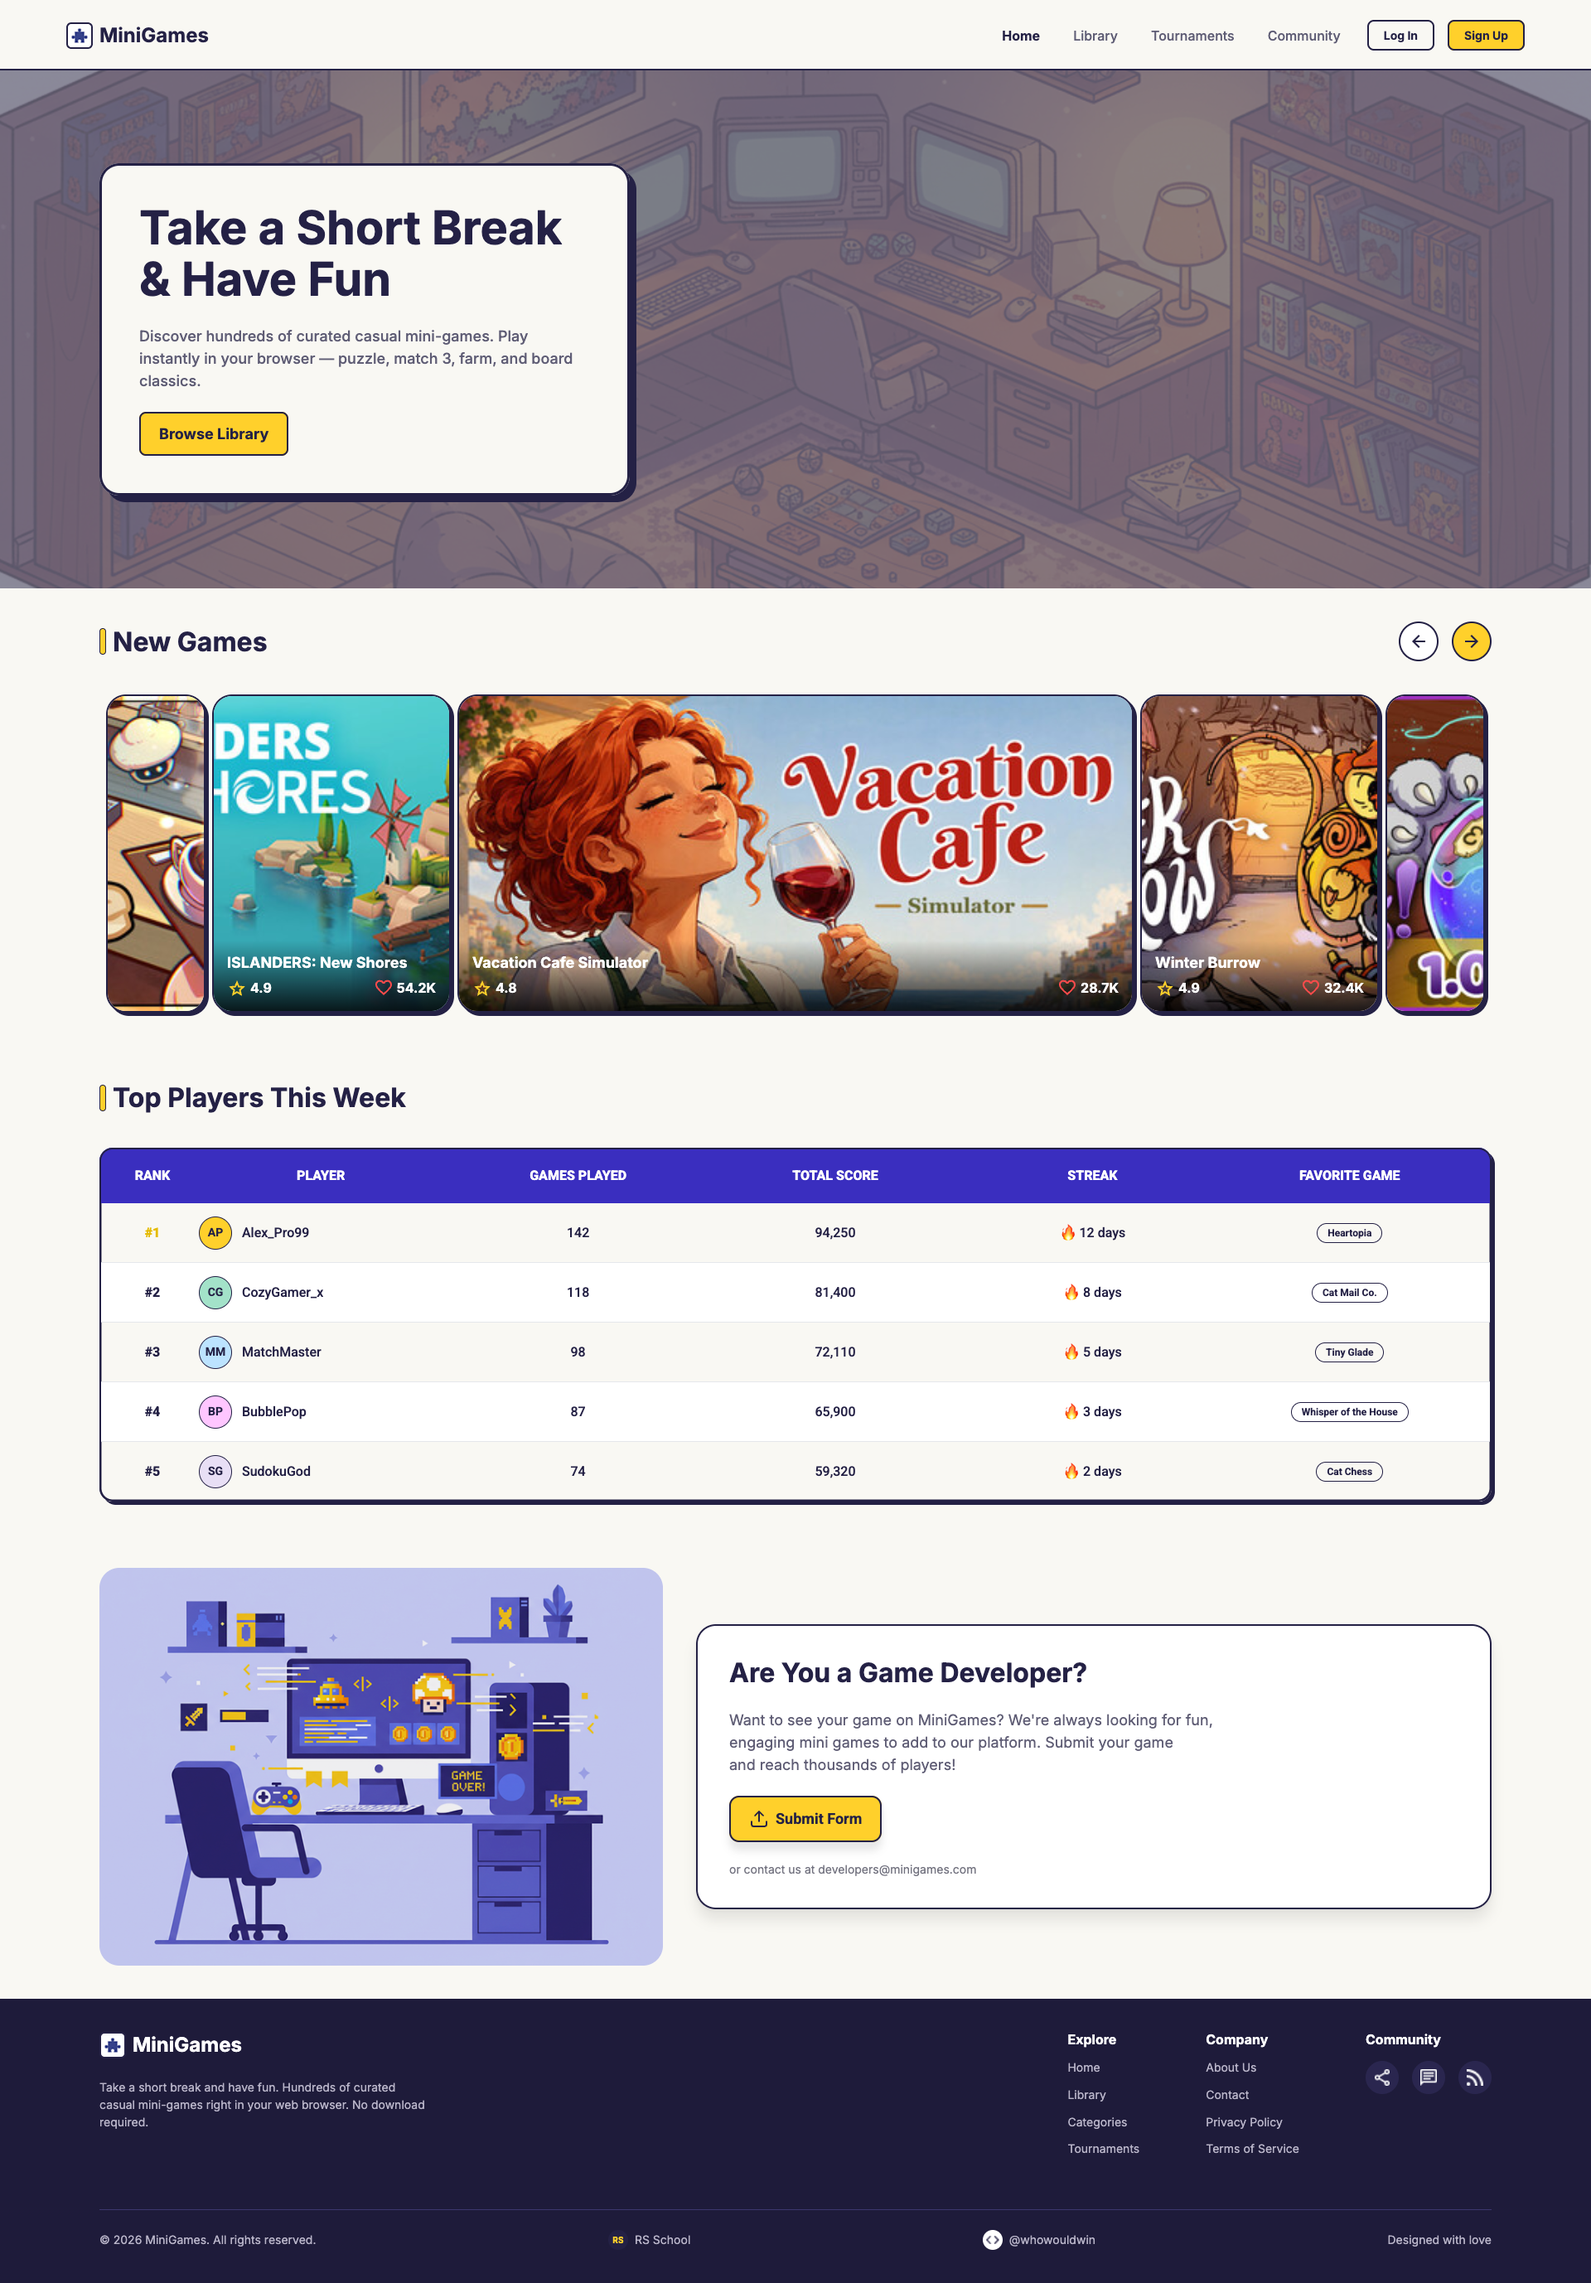
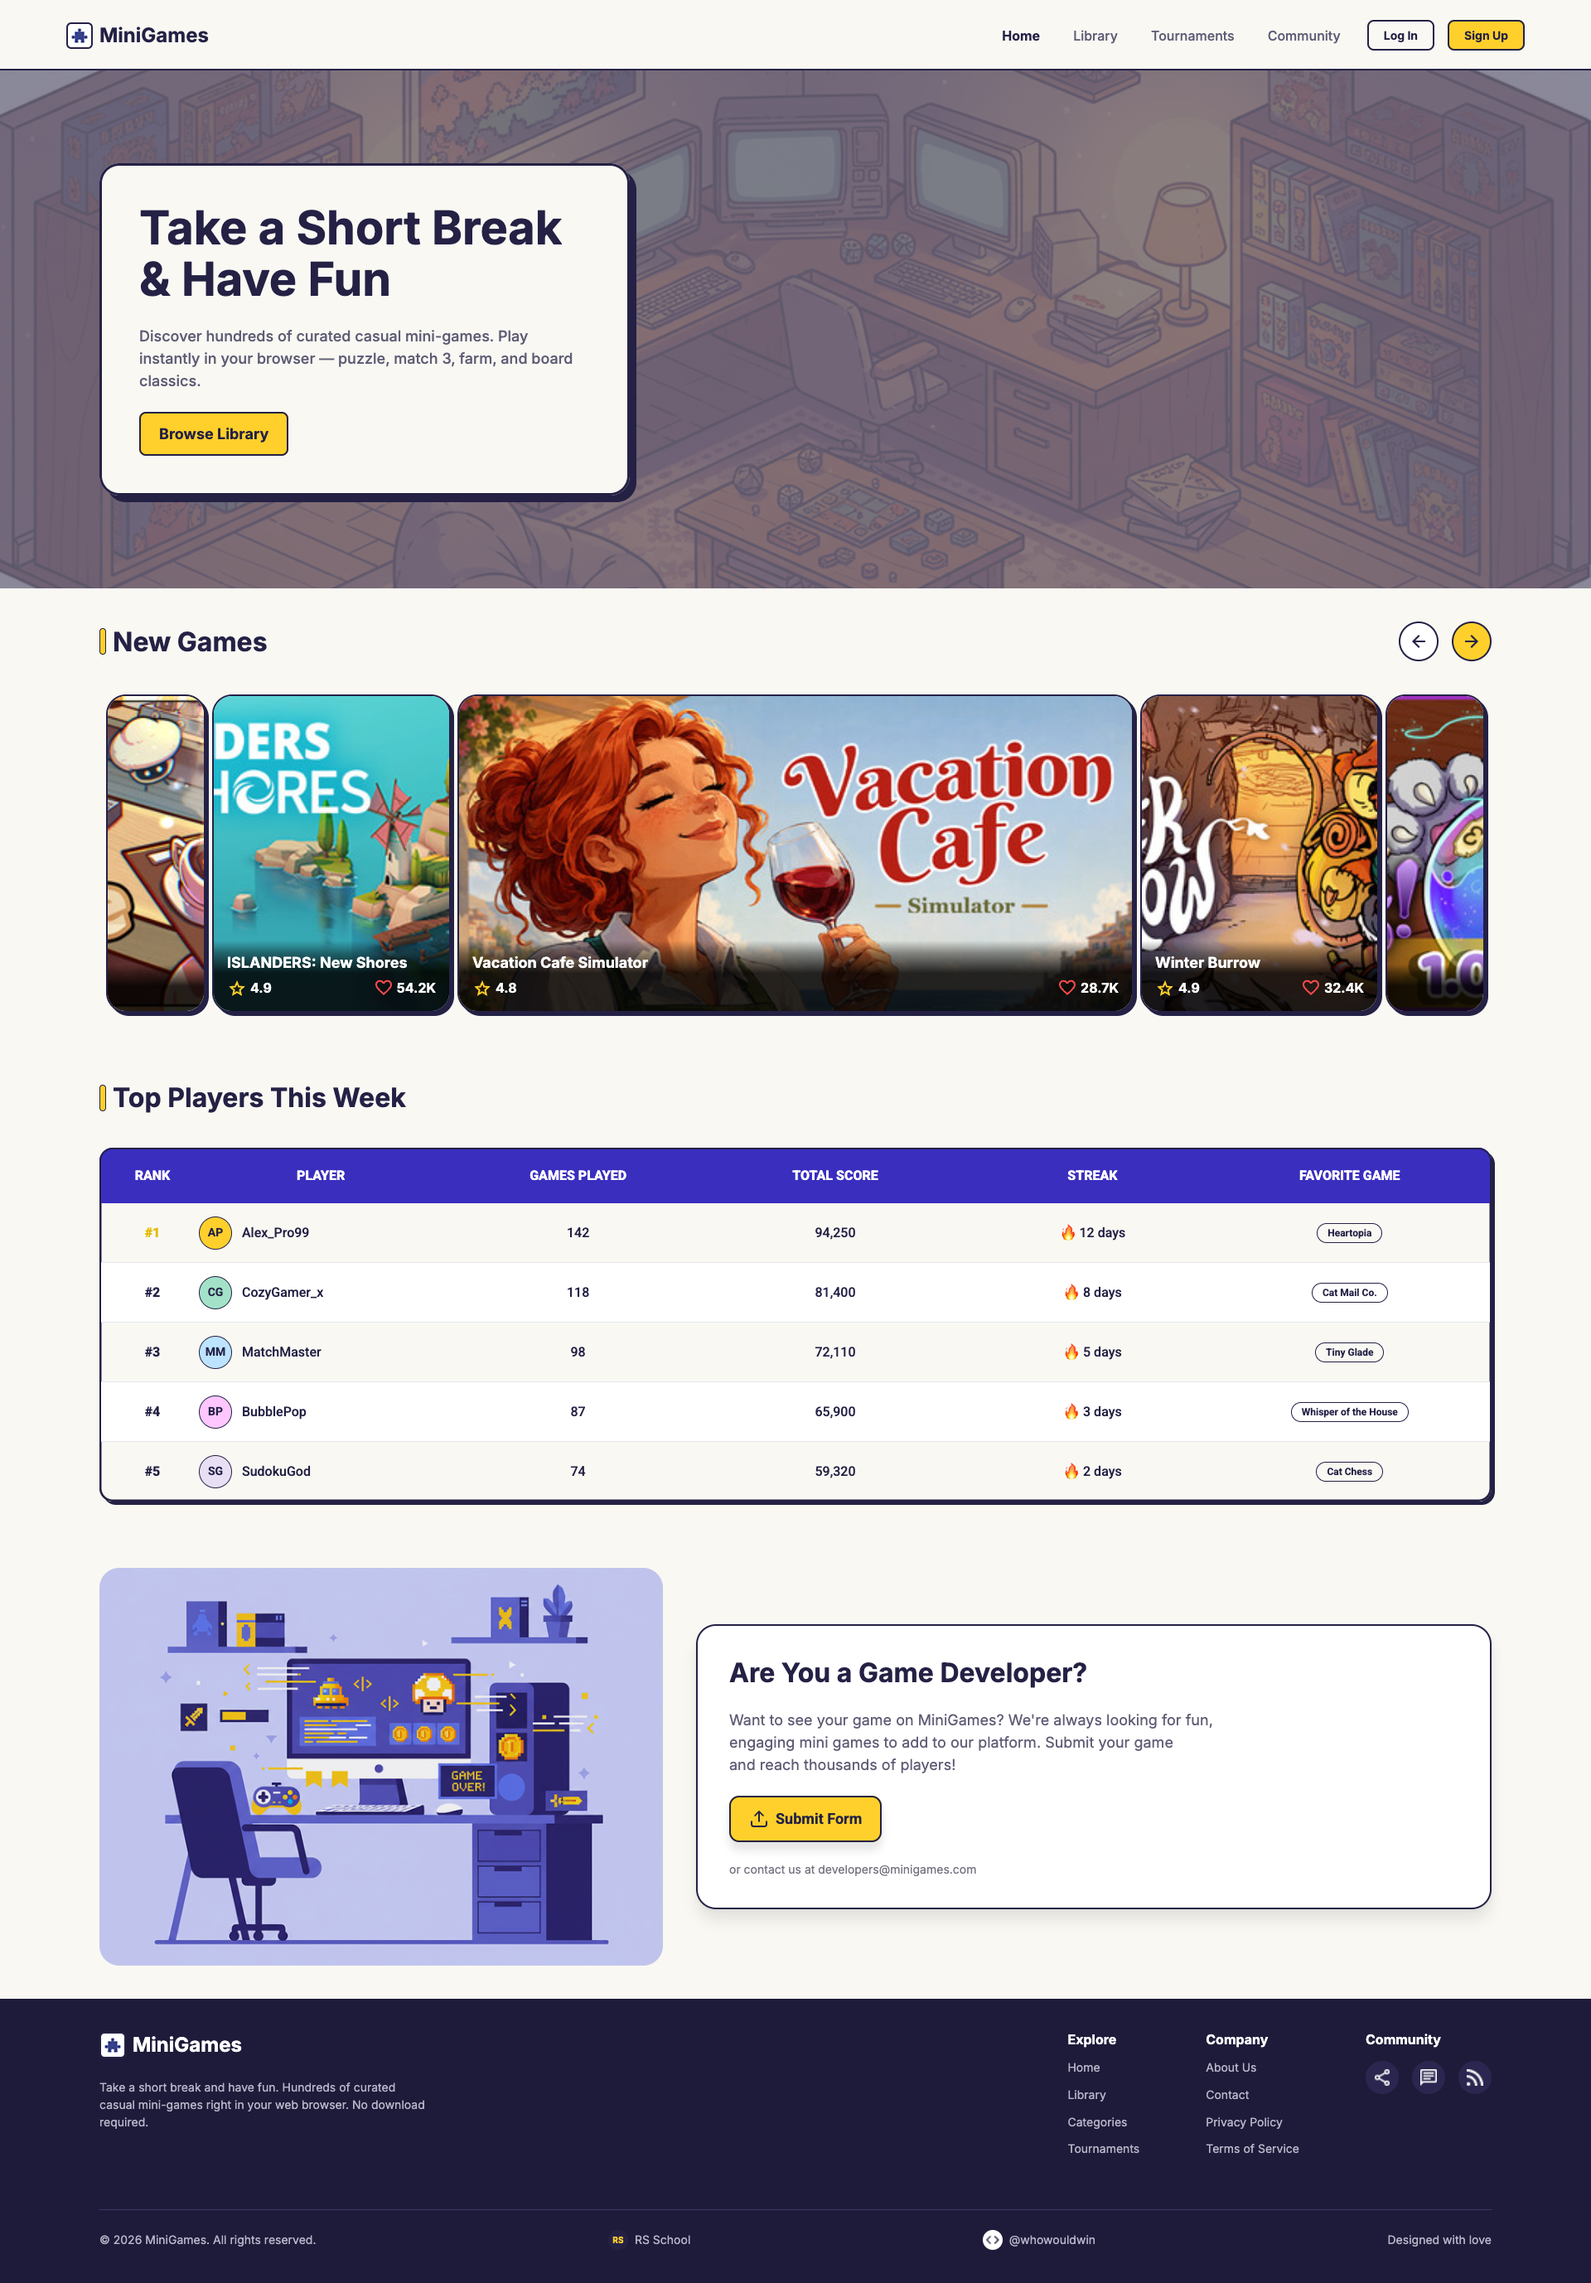
fix(RSS-QS-1-4-4): restore card shading and isolate menu layers

Changed region(s): [[0.0625, 0.4058, 0.9375, 0.4682]]

diff --git a/src/components/game-card/game-card.scss b/src/components/game-card/game-card.scss
@@ -1,4 +1,5 @@
 @use "../../styles/tokens";
+@use "../../styles/mixins";
 
 $game-card-info-threshold: 288px;
 $game-card-border-width: 2.5px;
@@ -12,10 +13,21 @@ $game-card-overlay-gap: tokens.$size-1;
 $game-card-title-line-height: 1.2;
 $game-card-stat-line-height: 1;
 
+$game-card-overlay-middle-stop: 17.308%;
+$game-card-overlay-dark-stop: 46.154%;
+
+$game-card-overlay-gradient: linear-gradient(
+  to bottom,
+  transparent,
+  rgba(tokens.$black, 0.4) $game-card-overlay-middle-stop,
+  rgba(tokens.$black, 0.85) $game-card-overlay-dark-stop
+);
+
 .game-card {
   container-type: inline-size;
 
   position: relative;
+  isolation: isolate;
 
   height: 100%;
   overflow: hidden;
@@ -34,6 +46,20 @@ $game-card-stat-line-height: 1;
     object-fit: cover;
   }
 
+  &__shade {
+    position: absolute;
+    right: 0;
+    bottom: 0;
+    left: 0;
+    height: tokens.$size-7;
+    pointer-events: none;
+    background: $game-card-overlay-gradient;
+
+    @include mixins.mobile {
+      display: none;
+    }
+  }
+
   &__overlay {
     position: absolute;
     right: 0;
@@ -48,11 +74,7 @@ $game-card-stat-line-height: 1;
     padding: tokens.$size-2;
 
     color: tokens.$white;
-    background: linear-gradient(
-      to bottom,
-      transparent,
-      rgba(tokens.$black, 0.85)
-    );
+    background: $game-card-overlay-gradient;
   }
 
   &__title {
@@ -106,6 +128,10 @@ $game-card-stat-line-height: 1;
 }
 
 @container (min-width: #{$game-card-content-info-threshold}) {
+  .game-card__shade {
+    display: none;
+  }
+
   .game-card__overlay {
     display: flex;
   }

diff --git a/src/components/game-card/game-card.ts b/src/components/game-card/game-card.ts
@@ -37,6 +37,10 @@ export const createGameCard = (game: GameCardData): HTMLElement => {
   image.src = game.image;
   image.alt = game.title;
 
+  const shade: HTMLDivElement = document.createElement("div");
+  shade.className = "game-card__shade";
+  shade.setAttribute("aria-hidden", "true");
+
   const overlay: HTMLDivElement = document.createElement("div");
   overlay.className = "game-card__overlay";
 
@@ -53,7 +57,7 @@ export const createGameCard = (game: GameCardData): HTMLElement => {
   stats.append(rating, likes);
   overlay.append(title, stats);
 
-  card.append(image, overlay);
+  card.append(image, shade, overlay);
 
   return card;
 };

diff --git a/docs/verification.md b/docs/verification.md
@@ -74,3 +74,9 @@ Source Figma overlays were reviewed at 375, 768 and 1920px. Fresh target screens
 - No backend, actual authentication, Google sign-in, password recovery or form validation is implemented in this stage. Forms do not submit or reload the page.
 - All navigation/social links lead to Home. The footer credits use the repository owner's actual GitHub handle.
 - The final `story-1` → `main` PR must remain open and unmerged. Submit that PR URL to RS App manually.
+
+## Carousel shading and menu stacking follow-up
+
+Verified locally on 20 September 2026. Card stacking is isolated so captions and decorative shading stay behind the mobile menu. The gradient now uses the Figma stops (40% opacity at 17.308%, 85% at 46.154%). Narrow cards have a separate 56px decorative gradient above the 375px mobile breakpoint; title, rating and likes remain hidden below 288px card width. At the mobile breakpoint the decorative gradient is hidden. This follows the supplied artwork for decorative shading; the written “image only / no info overlay” criterion can be interpreted more strictly.
+
+Validation: TypeScript, ESLint, Prettier and production build passed. Chrome checks passed at 18 viewport widths (375–2560px), with eight auth cases and no JavaScript/console errors or horizontal overflow. Menu stacking was checked at 375, 647, 648, 725, 767 and 768px; menu slide/close/Escape and focus restoration passed. Updated Home screenshots in `docs/review` show the current locally verified result.
